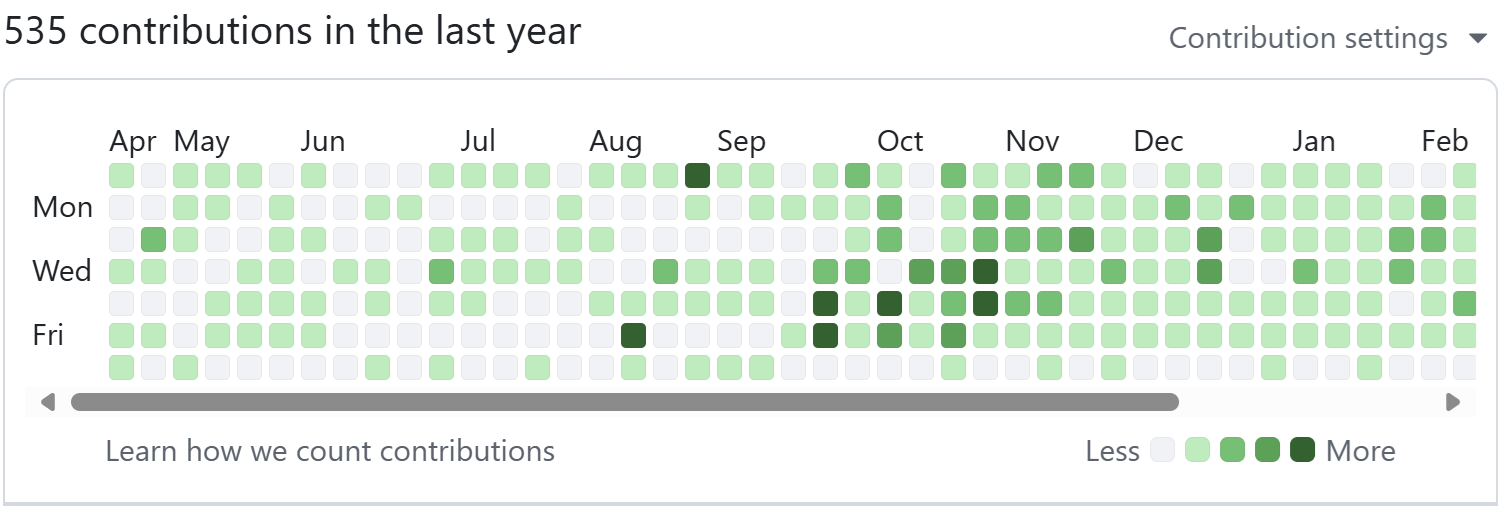
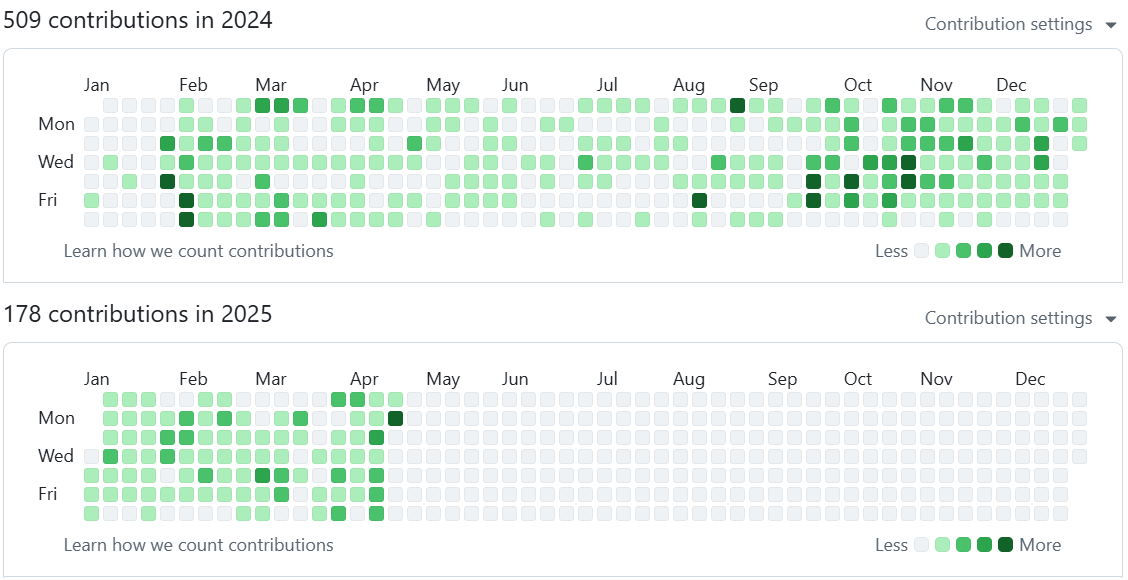
docs: Update introduce page

diff --git a/content/introduce/index.md b/content/introduce/index.md
@@ -1,9 +1,10 @@
 ---
 title: 블로그를 시작하며
-description: 다른 사람에게 보여줄 수 있는 형태의 기록
+description: 다른 사람에게 보여줄 수 있는 형태로 기록하기
 date: 2025-04-20
+lastmod: 2025-04-22
 slug: introduce
-comments: false
+comments: true
 
 menu:
   main:
@@ -14,24 +15,18 @@ menu:
       icon: book
 ---
 
-처음에는 방대한 IT 분야의 지식을 최대한 습득하고, 활용하기 위해서는 암기만으로는 불가능하다고 생각하여 개인 지식 저장 목적으로 기록을 시작했습니다. 2023년부터 기록을 이어가고 있으며 그날 있었던 일이나 생각, 공부한 지식 등을 작성하고 있습니다.
+블로그를 시작하기 전에는 개인 지식 저장 목적으로 그날 있었던 일이나 생각, 공부한 지식 등을 기록했습니다. 아래의 사진들은 지금까지 작성한 개인 지식 저장소를 나타낸 사진입니다:
 
-![작성한 기록의 옵시디언 그래프](obsidian-graph.png)
+{{< resizeimg src="obsidian-graph.png" width="800" caption="작성한 기록의 [Obsidian](https://obsidian.md/) 그래프" class="shadow-lg" >}}
 
-![2024년의 Git 그래프](git-contribution.png)
+{{< resizeimg src="git-contribution.png" width="800" caption="2025년 4월 22일 기준 GitHub Contributions Graph" class="shadow-lg" >}}
 
-저는 제가 만든 결과물이 가능한 높은 품질을 갖길 원합니다. 이를 위해 계속 공부하고 있지만, 혼자 개발하는 것에는 생산 속도나, 고려하지 못한 문제 등의 한계가 있었습니다. 더 나은 형태의 결과물을 위해서는 각자 생각하고 있는 접근 방법이나 지식을 동료들과 공유하며 같은 목표를 위해 협업해야 합니다. 대화 없이 각자의 생각대로 개발한다면 서로 다른 목표를 상상하면서 생산성과 결과물의 품질이 낮아지고, 구성원 간의 갈등도 발생할 수 있습니다.
+저는 제가 만든 결과물이 가능한 높은 품질을 갖길 원합니다. 이를 위해 계속 공부하고 있지만, 혼자 개발하는 것에는 생산 속도나, 고려하지 못한 문제 등의 한계가 있습니다. 더 나은 형태의 결과물을 위해서는 각자 생각하고 있는 접근 방법이나 지식을 동료들과 공유하며 같은 목표를 위해 협업해야 합니다. 이를 위해서는 표현하는 것을 두려워하지 않고 자신의 생각을 표현해야 합니다. 제 스스로도 지금까지 작성한 지식을 혼자서 내재하는 것보다, 다른 사람들도 제 생각을 알 수 있게 표현하려고 합니다.
 
-이를 피하기 위해서는 표현하는 것을 두려워하지 않고 자신의 생각을 표현해야 합니다. 개발 문서를 작성하는 것 역시 추상적인 내용으로 인해 생각의 차이가 발생할 수 있는 부분을 명확한 형태로 표현하여 구성원 간 목표를 맞추기 위함입니다.
-
-제 스스로도 지금까지 작성한 지식을 혼자서 내재하는 것보다, 다른 사람들도 제 생각을 알 수 있게 표현하려고 합니다.
-
-하지만 이전까지는 스스로 학습한 것을 기록하기 위한 목적이었기에 공유하기 위한 고민이 부족했습니다. 공개할 수 없는 정보가 함께 포함되어 있거나, 출처를 불분명하게 작성한 등 그대로 공유할 수 없는 문제가 있었습니다.
-
-또한 작성하는 과정에서 원하는 정보를 보다 편리하게 찾고, 가독성을 향상하기 위한 작성 방법을 고민하며 글이나 디렉토리 구조를 바꿨습니다. 이 과정에서 글의 형태가 일관성이 없는 문제도 있었습니다.
-
-지금부터는 작성한 글의 형태를 일관성 있게 맞추고, 개인 정보를 제거 후 출처를 명확하게 표기하여 블로그의 포스트 형태로 옮기려고 합니다. 글의 목적은 3가지로 나눴습니다:
+이전까지는 스스로 학습한 것을 기록하기 위한 목적이었기에 공개할 수 없는 정보가 함께 포함되어 있거나, 출처가 명확하지 않거나, 시간이 지남에 따라 글의 형태가 달라져 일관성이 떨어지는 등 다른 사람들에게 공유하기 위한 고민이 부족했습니다. 지금부터는 작성한 글의 형태를 일관성 있게 맞추고, 개인 정보를 제거 후 출처를 명확하게 표기하여 블로그의 포스트 형태로 옮기려고 합니다. 글의 대분류는 3가지로 나눴습니다:
 
 - **IT 지식**: 공부한 IT 관련 지식을 이해하기 쉽도록 정리하여 작성합니다.
 - **개발 회고**: 시스템을 구현하면서 접근 방법과 지표를 얻기 위한 방법, 판단 근거 등 고민했던 과정과 스스로 내린 결론을 작성합니다.
 - **메모**: 개인적으로 공유하고 싶은 내용을 작성합니다.
+
+방문자가 컨텐츠를 쉽게 파악할 수 있는 구조를 계속 고민하겠습니다.
